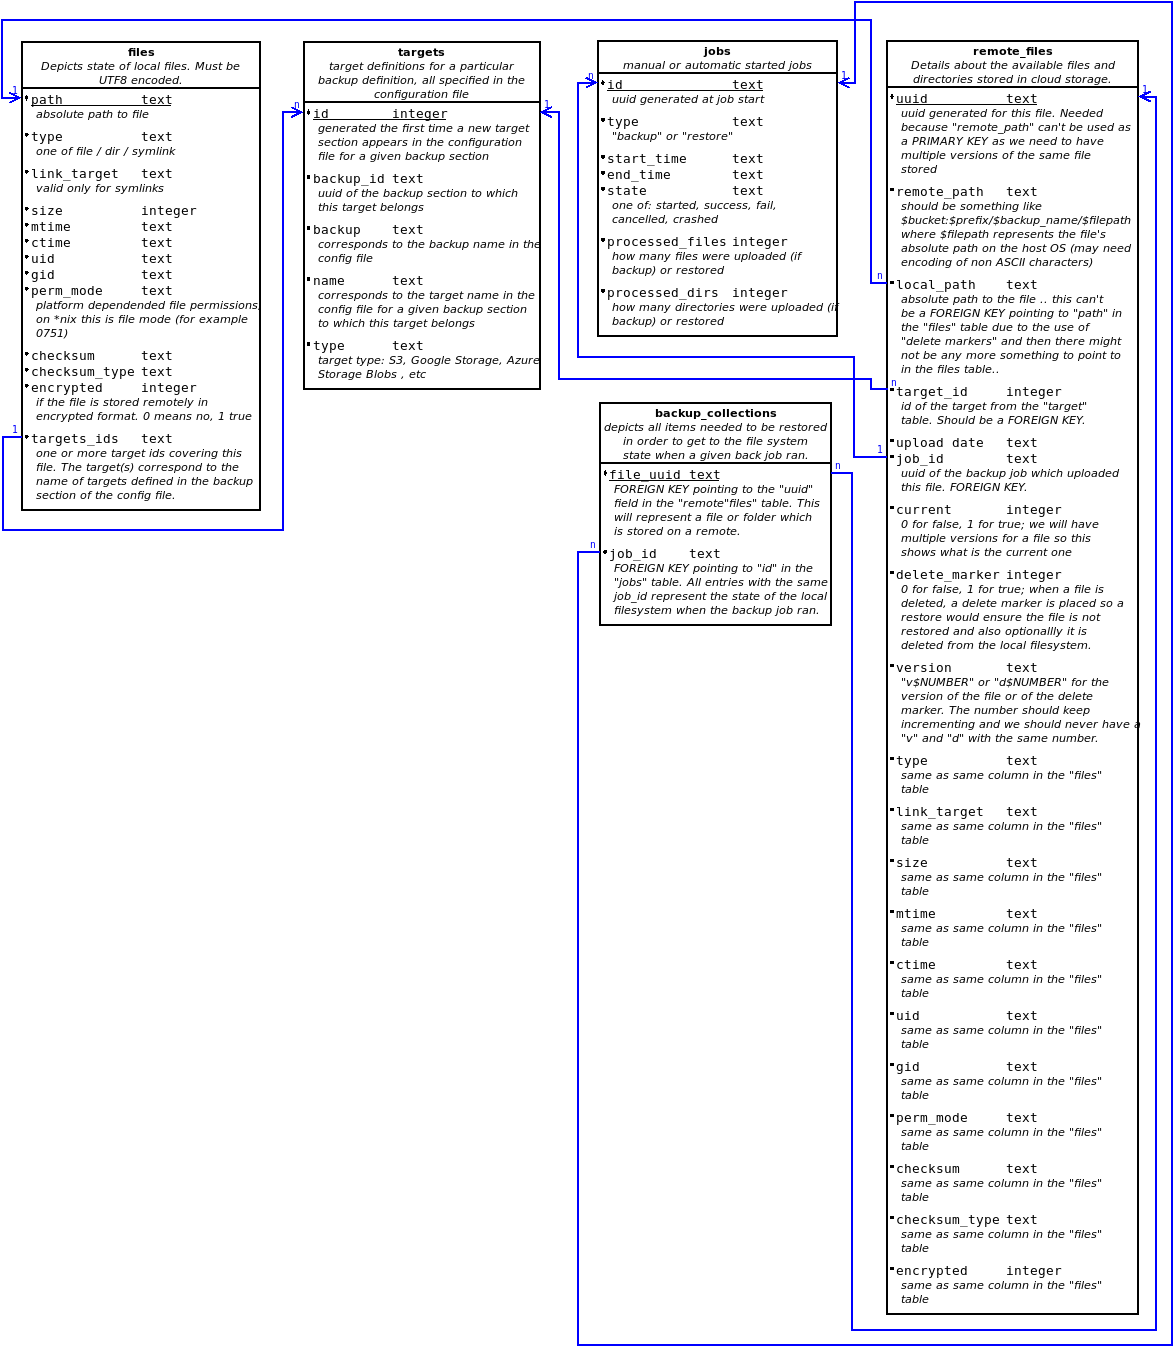
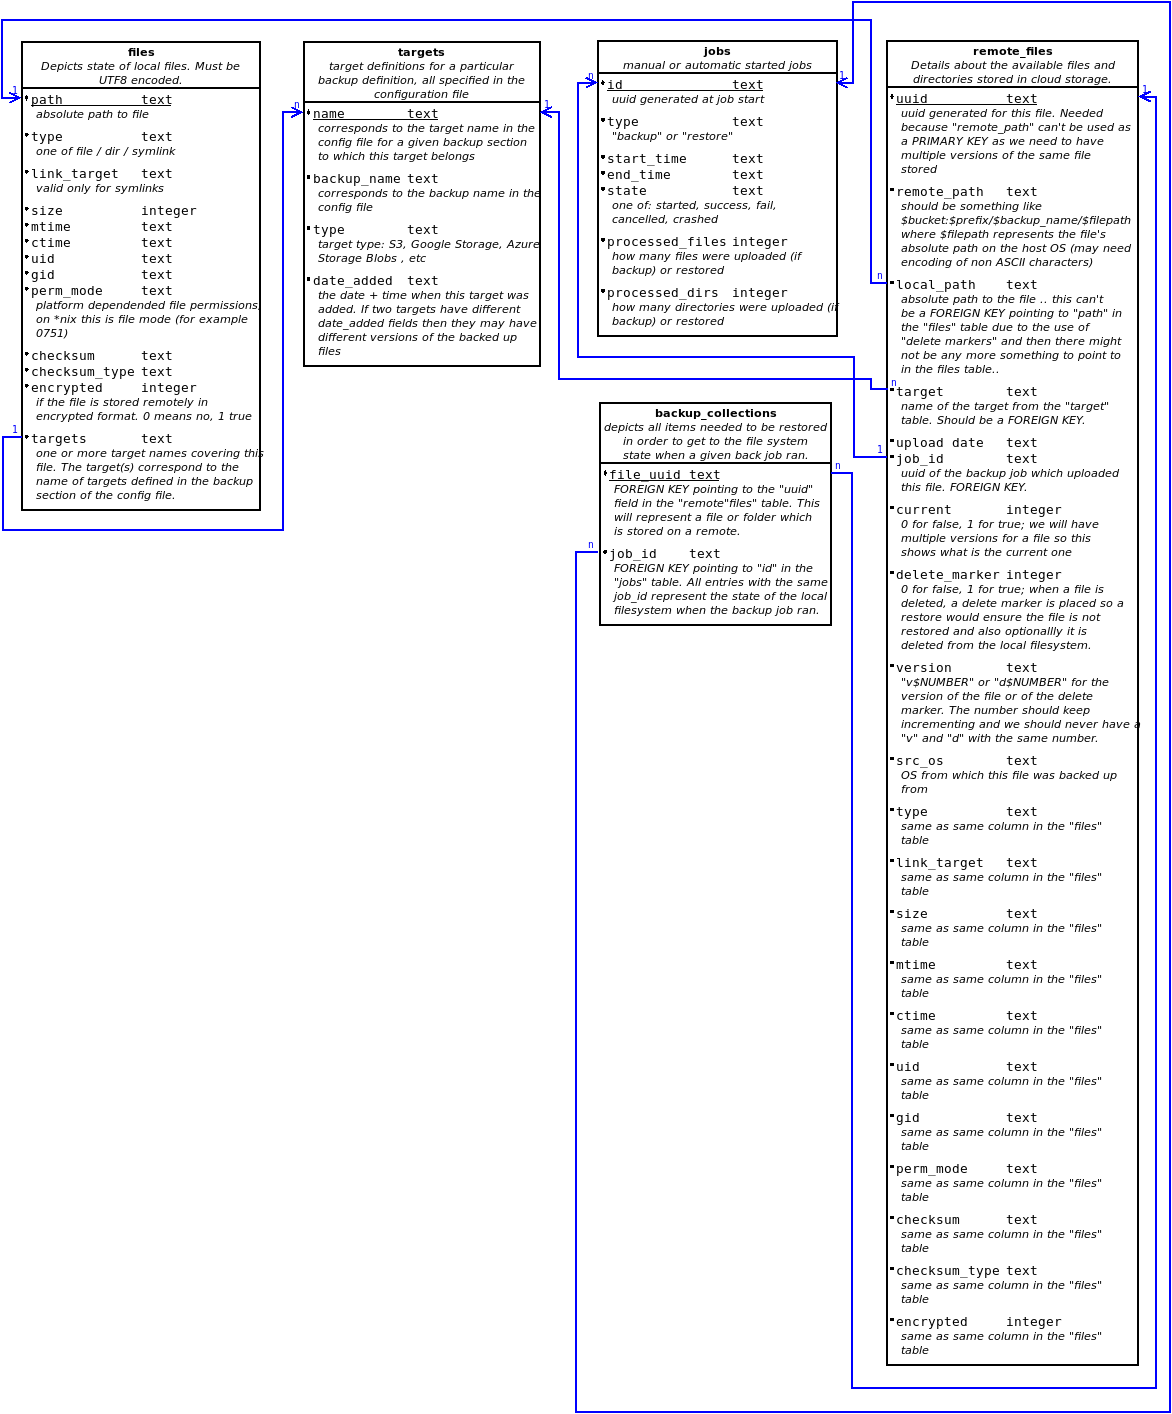
documentation update

Changed region(s): [[0.0, 0.0, 1.0, 1.0]]

diff --git a/private_documentation/site/architecture/index.html b/private_documentation/site/architecture/index.html
@@ -82,6 +82,7 @@
             <li><a href="#command-stucture">Command Stucture</a></li>
             <li><a href="#server-components">Server Components</a></li>
         <li class="main "><a href="#database">Database</a></li>
+            <li><a href="#tables">Tables</a></li>
     </ul>
 </div></div>
                 <div class="col-md-9" role="main">
@@ -89,6 +90,10 @@
 <h1 id="overview">Overview</h1>
 <p>There is only one binary which can be started as a server or which can be used as a CLI client. In server mode this is the actual backup engine while the CLI's purpose is only to interact with the backup engine and give it instructions.</p>
 <p>When running in server mode it requires a configuration file and also a set of static web assets which it uses for serving documentation or for service the static parts of a web UI.</p>
+<p>Backup/Restore jobs:
+- for a given backup name only one backup job can run at a time. This MUST not be changed as things in the code are done assuming this is true. For example the SQL db should not be opened in write mode by more than 1 "thing" (SQLITE limitation)
+- the above stands true for restore jobs too .. no more than one at a time for a given backup name
+- The 1 write "thing" DB limitation implies that a restore job CAN'T run at the same time a backup job runs for a given backup name (each backup name has a dedicated db file; a restore writes in the same db file). The reverse stands true too, a backup should never run if a restore for the same DB name is running</p>
 <h2 id="command-stucture">Command Stucture</h2>
 <p>The command and its main options are depicted below. Command line parameters are supported and can be discovered using the <code>--help</code> option. For example:</p>
 <pre><code>$ cloudbackup client backup dryrun --help
@@ -147,7 +152,15 @@ Help Options:
 <h1 id="database">Database</h1>
 <p>There will be one database for each <code>backup</code> section of the config file. The structure of such a database is:</p>
 <p><img alt="database diagram" src="../img/database_structure.png" /></p>
+<h2 id="tables">Tables</h2>
+<h3 id="files">files</h3>
 <p>For each local file and directory belonging under a backed up path there will be an entry in the <code>files</code> table.</p>
+<p>Entries are inserted / updated / deleted during a backup job run. The only exception to this is a manual "purge" job before a backup section of the config file is deleted/updated or worst case scenario after this has happened (this is not desirable).  </p>
+<h3 id="targets">targets</h3>
+<p>Records 1 to 1 mapping of the targets mentioned in the configuration file for a given backup job definition.</p>
+<p>Entries in this table are added only when a backup job starts (basically it is checked that for each config target entry we have an entry in the table).</p>
+<p>Before removing a target during configuration file update a manual "purge" job should be run (or worst case scenario afterwards). Ideall we block config file changes via the API if the purge was not ran.</p>
+<h3 id="remote_files">remote_files</h3>
 <p>The <code>remote_files</code> table contains a listing of all remote stored copies of the files (basically the backups). A file from the <code>files</code> table can have multiple entries in the <code>remote_files</code> table due to multiple versions of said file being backed up.
 There is one case where entries in the <code>remote_files</code> tables won't have any more a corresponding entry in the <code>files</code> table and that is when the local file got deleted. </p></div>
         </div>

diff --git a/private_documentation/site/index.html b/private_documentation/site/index.html
@@ -182,5 +182,5 @@ docs/
 
 <!--
 MkDocs version : 1.0
-Build Date UTC : 2018-08-23 13:14:23
+Build Date UTC : 2018-09-02 04:02:25
 -->

diff --git a/private_documentation/docs/architecture.md b/private_documentation/docs/architecture.md
@@ -66,7 +66,23 @@ There will be one database for each `backup` section of the config file. The str
 
 ![database diagram](img/database_structure.png)
 
+## Tables
+
+### files
+
 For each local file and directory belonging under a backed up path there will be an entry in the `files` table.
+
+Entries are inserted / updated / deleted during a backup job run. The only exception to this is a manual "purge" job before a backup section of the config file is deleted/updated or worst case scenario after this has happened (this is not desirable).  
+
+### targets
+
+Records 1 to 1 mapping of the targets mentioned in the configuration file for a given backup job definition.
+
+Entries in this table are added only when a backup job starts (basically it is checked that for each config target entry we have an entry in the table).
+
+Before removing a target during configuration file update a manual "purge" job should be run (or worst case scenario afterwards). Ideall we block config file changes via the API if the purge was not ran.
+
+### remote_files
 
 The `remote_files` table contains a listing of all remote stored copies of the files (basically the backups). A file from the `files` table can have multiple entries in the `remote_files` table due to multiple versions of said file being backed up.
 There is one case where entries in the `remote_files` tables won't have any more a corresponding entry in the `files` table and that is when the local file got deleted. 